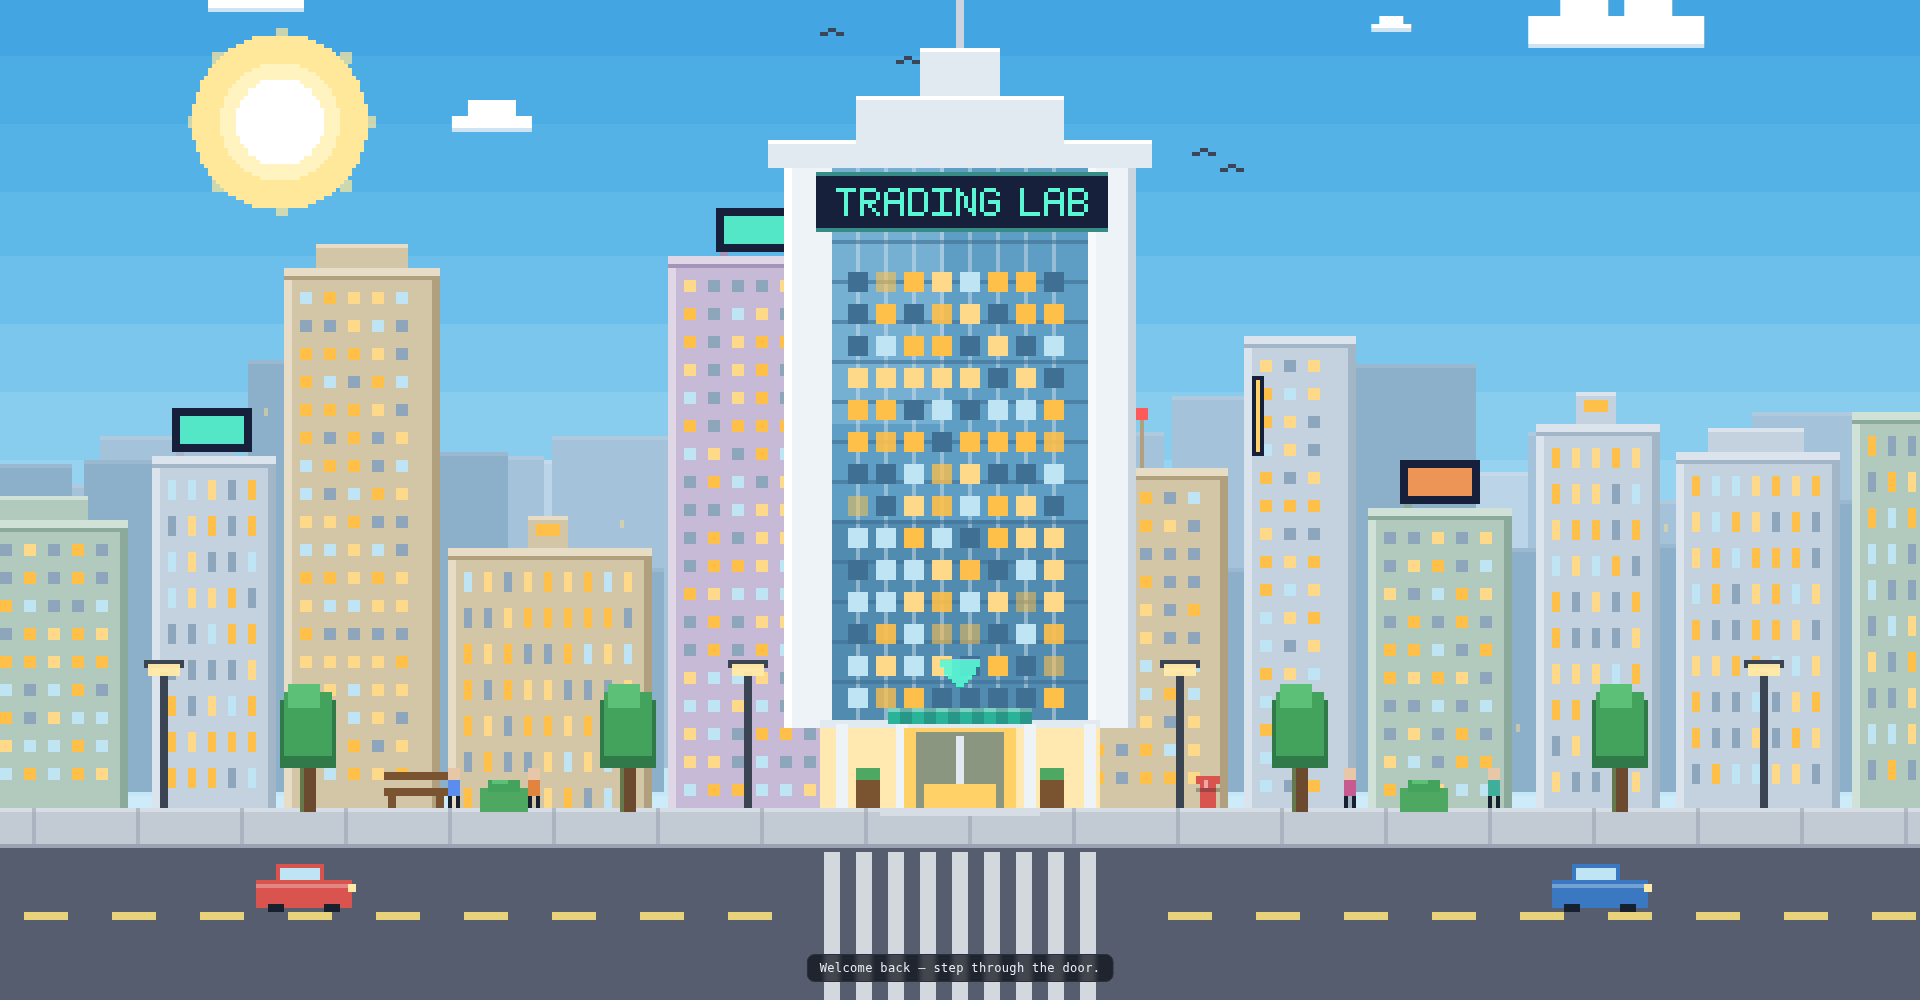
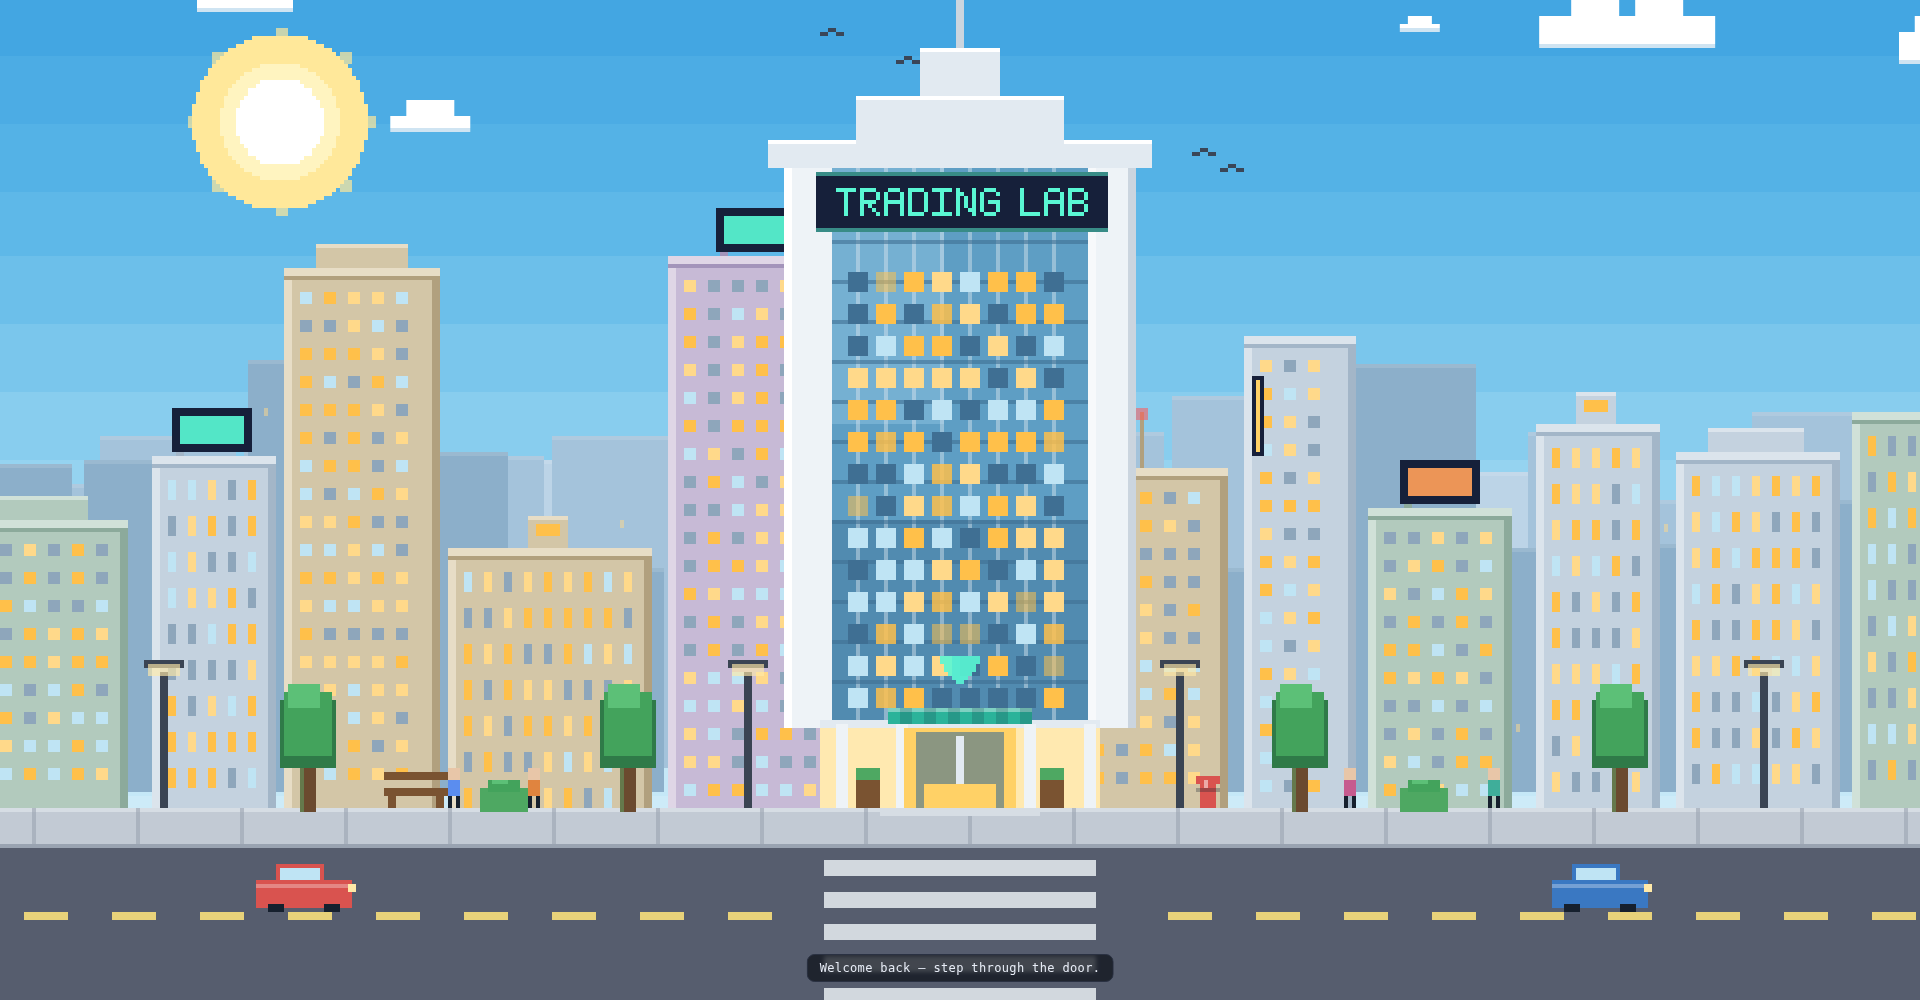
fix(city): rotate crosswalk stripes 90° to run with traffic
Zebra stripes were vertical (perpendicular to the cars). A real crossing
runs its stripes parallel to traffic, so pedestrians step across them.
Loop over y instead of x: horizontal bars stacked down the road.
Refresh docs/screenshot-outside.png to match.

diff --git a/apps/web/src/city/CityScene.tsx b/apps/web/src/city/CityScene.tsx
@@ -41,9 +41,11 @@ function Street({ pal }: { pal: CityPalette }) {
     if (x > CX - 40 && x < CX + 40) continue; // leave a gap for the crosswalk
     els.push(<rect key={`lane${x}`} x={x} y={GROUND_Y + 26} width={11} height={2} fill={pal.roadLine} />);
   }
-  // crosswalk in front of the tower
-  for (let x = CX - 34; x <= CX + 30; x += 8) {
-    els.push(<rect key={`cw${x}`} x={x} y={GROUND_Y + 11} width={4} height={SCENE_H - (GROUND_Y + 11)} fill={pal.crosswalk} opacity={0.85} />);
+  // crosswalk in front of the tower — zebra stripes run across the road (parallel to traffic)
+  const cwX = CX - 34;
+  const cwW = 68;
+  for (let y = GROUND_Y + 13; y < SCENE_H - 2; y += 8) {
+    els.push(<rect key={`cw${y}`} x={cwX} y={y} width={cwW} height={4} fill={pal.crosswalk} opacity={0.85} />);
   }
   return <g aria-hidden="true">{els}</g>;
 }